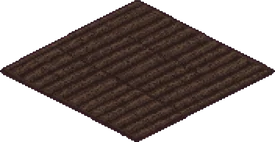
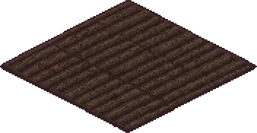
Хутір: мальована пшениця в 4 стадіях
Claude-Session: https://claude.ai/code/session_01QbSGMqmN1vqNech2zGitVh

diff --git a/ads/khutir/game.js b/ads/khutir/game.js
@@ -457,7 +457,11 @@
     pastry: { src: 'img/pastry.webp', ax: 128, ay: 193, fit: 1.1 },
     meadery: { src: 'img/meadery.webp', ax: 128, ay: 175, fit: 1.1 },
     well: { src: 'img/well.webp', ax: 128, ay: 162, fit: 1.1 },
-    soil: { src: 'img/soil.webp', ax: 137, ay: 71, fit: 0.95 },
+    soil: { src: 'img/soil.webp', ax: 128, ay: 66, fit: 1.02 },
+    wheat0: { src: 'img/wheat0.webp', ax: 129, ay: 66, fit: 1.02 },
+    wheat1: { src: 'img/wheat1.webp', ax: 129, ay: 92, fit: 1.02 },
+    wheat2: { src: 'img/wheat2.webp', ax: 129, ay: 145, fit: 1.02 },
+    wheat3: { src: 'img/wheat3.webp', ax: 129, ay: 145, fit: 1.02 },
   };
   for (const k in SPR) { const im = new Image(); im.src = SPR[k].src; SPR[k].im = im; }
   function sprite(k, X, Y, z) {
@@ -503,6 +507,8 @@
     g.fillStyle = '#B0B0B5'; g.beginPath(); g.moveTo(cx - 8 * z, cy - 8 * z); g.lineTo(cx + 2 * z, cy - 12 * z); g.lineTo(cx + 3 * z, cy - 4 * z); g.closePath(); g.fill();
   }
   function drawField(cx, cy, z, grow, ripe) {
+    // мальовані стадії: паростки → зелена → жовтіє → стигла
+    if (sprite(ripe ? 'wheat3' : grow < 0.34 ? 'wheat0' : grow < 0.67 ? 'wheat1' : 'wheat2', cx, cy, z)) return;
     const soil = sprite('soil', cx, cy, z);
     if (!soil) { g.fillStyle = '#8A5A35'; diamond(cx, cy, TW * 0.94 * z, TH * 0.94 * z); g.fill(); }
     g.strokeStyle = '#74492A'; g.lineWidth = 1.5 * z;
